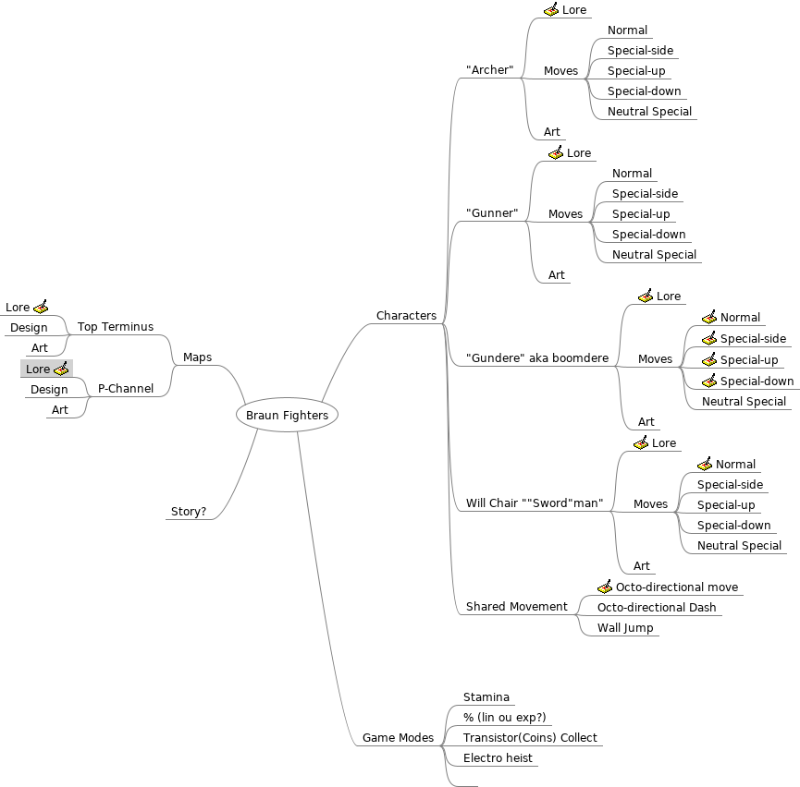
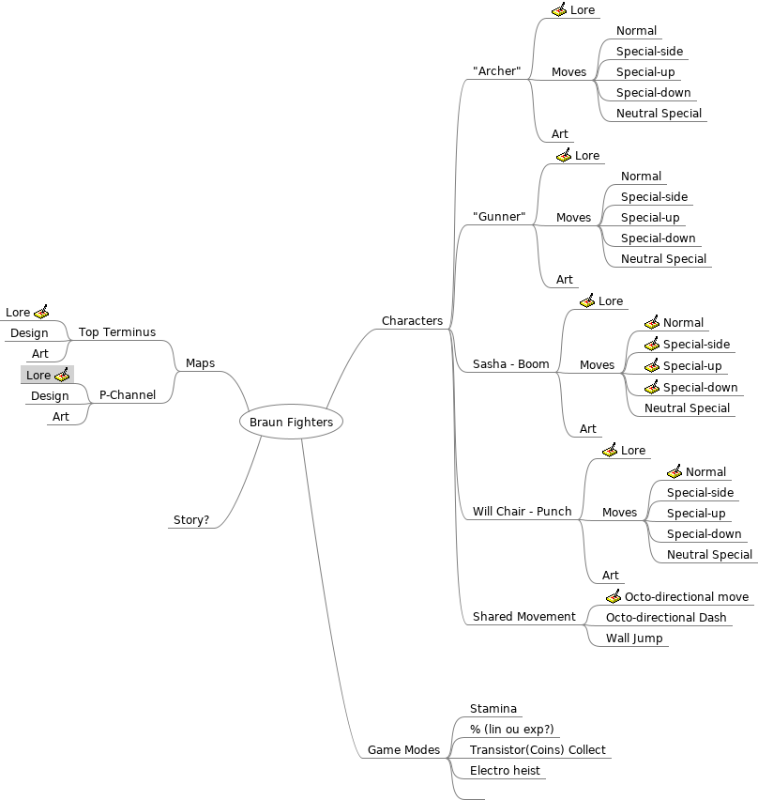
added music folder

diff --git a/meta/Braun Fighters.mm b/meta/Braun Fighters.mm
@@ -13,8 +13,7 @@
       Is blind, idk.
     </p>
   </body>
-</html>
-</richcontent>
+</html></richcontent>
 </node>
 <node CREATED="1626100226714" ID="ID_1898425415" MODIFIED="1626100243400" TEXT="Moves">
 <node CREATED="1626101744379" ID="ID_1691722417" MODIFIED="1626200429146" TEXT="Normal"/>
@@ -36,8 +35,7 @@
       Captain America or something.
     </p>
   </body>
-</html>
-</richcontent>
+</html></richcontent>
 </node>
 <node CREATED="1626100226714" ID="ID_1344085803" MODIFIED="1626100243400" TEXT="Moves">
 <node CREATED="1626102962956" ID="ID_1319562403" MODIFIED="1626200447753" TEXT="Normal"/>
@@ -48,7 +46,7 @@
 </node>
 <node CREATED="1626100228769" ID="ID_979782147" MODIFIED="1626100237843" TEXT="Art"/>
 </node>
-<node CREATED="1626097266043" ID="ID_986134513" MODIFIED="1626102831103" TEXT="&quot;Gundere&quot; aka boomdere">
+<node CREATED="1626097266043" ID="ID_986134513" MODIFIED="1626375391171" TEXT="Sasha - Boom">
 <node CREATED="1626100214367" ID="ID_1879071088" MODIFIED="1626201757878" TEXT="Lore">
 <richcontent TYPE="NOTE"><html>
   <head>
@@ -74,8 +72,7 @@
       She's willing to go as far as making her own explosive artillery to obtain what she wants.
     </p>
   </body>
-</html>
-</richcontent>
+</html></richcontent>
 </node>
 <node CREATED="1626100226714" ID="ID_504777064" MODIFIED="1626100243400" TEXT="Moves">
 <node CREATED="1626101744379" ID="ID_606855485" MODIFIED="1626201793440" TEXT="Normal">
@@ -91,8 +88,7 @@
       The bomb explodes after 5 seconds, or after another press of the attack button.
     </p>
   </body>
-</html>
-</richcontent>
+</html></richcontent>
 </node>
 <node CREATED="1626101873660" ID="ID_765795710" MODIFIED="1626201846649" TEXT="Special-side">
 <richcontent TYPE="NOTE"><html>
@@ -104,8 +100,7 @@
       Fire a bazooka?
     </p>
   </body>
-</html>
-</richcontent>
+</html></richcontent>
 </node>
 <node CREATED="1626101874332" ID="ID_1541013119" MODIFIED="1626201829261" TEXT="Special-up">
 <richcontent TYPE="NOTE"><html>
@@ -120,8 +115,7 @@
       Explodes shorty after being shot.
     </p>
   </body>
-</html>
-</richcontent>
+</html></richcontent>
 </node>
 <node CREATED="1626101959057" ID="ID_332819826" MODIFIED="1626201837633" TEXT="Special-down">
 <richcontent TYPE="NOTE"><html>
@@ -133,14 +127,13 @@
       Places down a mine?
     </p>
   </body>
-</html>
-</richcontent>
+</html></richcontent>
 </node>
 <node CREATED="1626101995289" ID="ID_736522280" MODIFIED="1626200455849" TEXT="Neutral Special"/>
 </node>
 <node CREATED="1626100228769" ID="ID_704213889" MODIFIED="1626100237843" TEXT="Art"/>
 </node>
-<node CREATED="1626097268090" ID="ID_606925102" MODIFIED="1626100250465" TEXT="Will Chair &quot;&quot;Sword&quot;man&quot;">
+<node CREATED="1626097268090" ID="ID_606925102" MODIFIED="1626375399219" TEXT="Will Chair - Punch">
 <node CREATED="1626100214367" ID="ID_1430433543" MODIFIED="1626200825101" TEXT="Lore">
 <richcontent TYPE="NOTE"><html>
   <head>
@@ -179,8 +172,7 @@
       Swings his ruler in front of him.
     </p>
   </body>
-</html>
-</richcontent>
+</html></richcontent>
 </node>
 <node CREATED="1626101873660" ID="ID_1257663151" MODIFIED="1626200457321" TEXT="Special-side"/>
 <node CREATED="1626101874332" ID="ID_352736031" MODIFIED="1626200457993" TEXT="Special-up"/>
@@ -202,8 +194,7 @@
       haha move go stepstep
     </p>
   </body>
-</html>
-</richcontent>
+</html></richcontent>
 </node>
 <node CREATED="1626101803668" ID="ID_1901920320" MODIFIED="1626101851268" TEXT="Octo-directional Dash"/>
 <node CREATED="1626200405870" ID="ID_68700223" MODIFIED="1626200409850" TEXT="Wall Jump"/>
@@ -221,8 +212,7 @@
       The Electron Gun dwells at the summit of one of the twin towers. The arena is on the roof of one of the towers, with the electron gun room in the background.
     </p>
   </body>
-</html>
-</richcontent>
+</html></richcontent>
 </node>
 <node CREATED="1626201675131" ID="ID_235698555" MODIFIED="1626201679143" TEXT="Design"/>
 <node CREATED="1626201689067" ID="ID_27935240" MODIFIED="1626201690599" TEXT="Art"/>
@@ -238,8 +228,7 @@
       A channel linking from the harbor to an industrial site.
     </p>
   </body>
-</html>
-</richcontent>
+</html></richcontent>
 </node>
 <node CREATED="1626201675131" ID="ID_1330985214" MODIFIED="1626201679143" TEXT="Design"/>
 <node CREATED="1626201689067" ID="ID_1327541189" MODIFIED="1626201690599" TEXT="Art"/>
